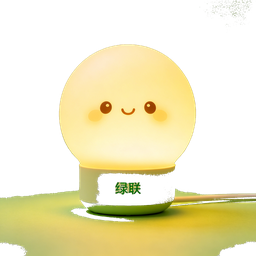
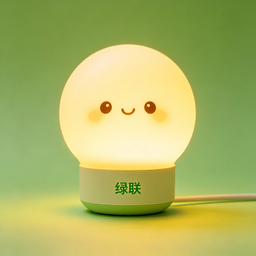
v1.2.6: 图标保留原图绿底，不抠透明
更新 process_logo 与全部图标资源；manifest 升至 1.2.6。

diff --git a/App.Native.UGreenLED/scripts/process_logo.py b/App.Native.UGreenLED/scripts/process_logo.py
@@ -1,8 +1,7 @@
 #!/usr/bin/env python3
-"""将可爱灯泡设计.png 转为飞牛应用所需图标尺寸"""
+"""将可爱灯泡设计.png 转为飞牛应用所需图标尺寸（保留原图背景，不抠图）"""
 from __future__ import annotations
 
-import os
 from pathlib import Path
 
 from PIL import Image
@@ -18,44 +17,26 @@ OUTS = [
 ]
 
 
-def remove_green_bg(img: Image.Image, tolerance: int = 42) -> Image.Image:
-    """去除近似纯绿背景，保留灯泡主体（透明底）"""
-    img = img.convert("RGBA")
-    # 四角采样背景色
+def sample_bg(img: Image.Image) -> tuple[int, int, int]:
+    """四角取平均色，用于非正方形时补边"""
     w, h = img.size
-    corners = [img.getpixel((0, 0)), img.getpixel((w - 1, 0)), img.getpixel((0, h - 1)), img.getpixel((w - 1, h - 1))]
-    bg = tuple(sum(c[i] for c in corners) // 4 for i in range(3))
-
-    px = img.load()
-    for y in range(h):
-        for x in range(w):
-            r, g, b, a = px[x, y]
-            if (
-                abs(r - bg[0]) <= tolerance
-                and abs(g - bg[1]) <= tolerance
-                and abs(b - bg[2]) <= tolerance
-                and g >= r - 15
-                and g >= b - 15
-            ):
-                px[x, y] = (r, g, b, 0)
-
-    # 轻微收缩边缘去绿晕
-    alpha = img.split()[3]
-    bbox = alpha.getbbox()
-    if bbox:
-        img = img.crop(bbox)
-
-    return img
+    corners = [
+        img.getpixel((0, 0)),
+        img.getpixel((w - 1, 0)),
+        img.getpixel((0, h - 1)),
+        img.getpixel((w - 1, h - 1)),
+    ]
+    return tuple(sum(c[i] for c in corners) // 4 for i in range(3))
 
 
 def square_fit(img: Image.Image, size: int) -> Image.Image:
-    """等比缩放后居中铺到正方形画布（透明底）"""
-    img = img.convert("RGBA")
-    side = max(img.size)
-    canvas = Image.new("RGBA", (side, side), (0, 0, 0, 0))
-    ox = (side - img.width) // 2
-    oy = (side - img.height) // 2
-    canvas.paste(img, (ox, oy), img)
+    """等比内容居中，用原图背景色补成正方形后缩放"""
+    img = img.convert("RGB")
+    w, h = img.size
+    bg = sample_bg(img)
+    side = max(w, h)
+    canvas = Image.new("RGB", (side, side), bg)
+    canvas.paste(img, ((side - w) // 2, (side - h) // 2))
     return canvas.resize((size, size), Image.Resampling.LANCZOS)
 
 
@@ -69,8 +50,7 @@ def main() -> None:
         raise SystemExit(f"源图不存在: {SRC}")
 
     raw = Image.open(SRC)
-    cut = remove_green_bg(raw)
-    base = square_fit(cut, 512)
+    base = square_fit(raw, 512)
 
     for out, size in OUTS:
         save_png(out, square_fit(base, size))

diff --git a/README.md b/README.md
@@ -63,7 +63,7 @@ fnpack build
 python App.Native.UGreenLED/scripts/process_logo.py
 ```
 
-会更新 `ICON.PNG`、`ICON_256.PNG` 及 `app/ui/images`、`app/www/images/logo.png`。
+会更新 `ICON.PNG`、`ICON_256.PNG` 及 `app/ui/images`、`app/www/images/logo.png`（保留原图绿色背景，不抠透明）。
 
 ## 使用说明
 
